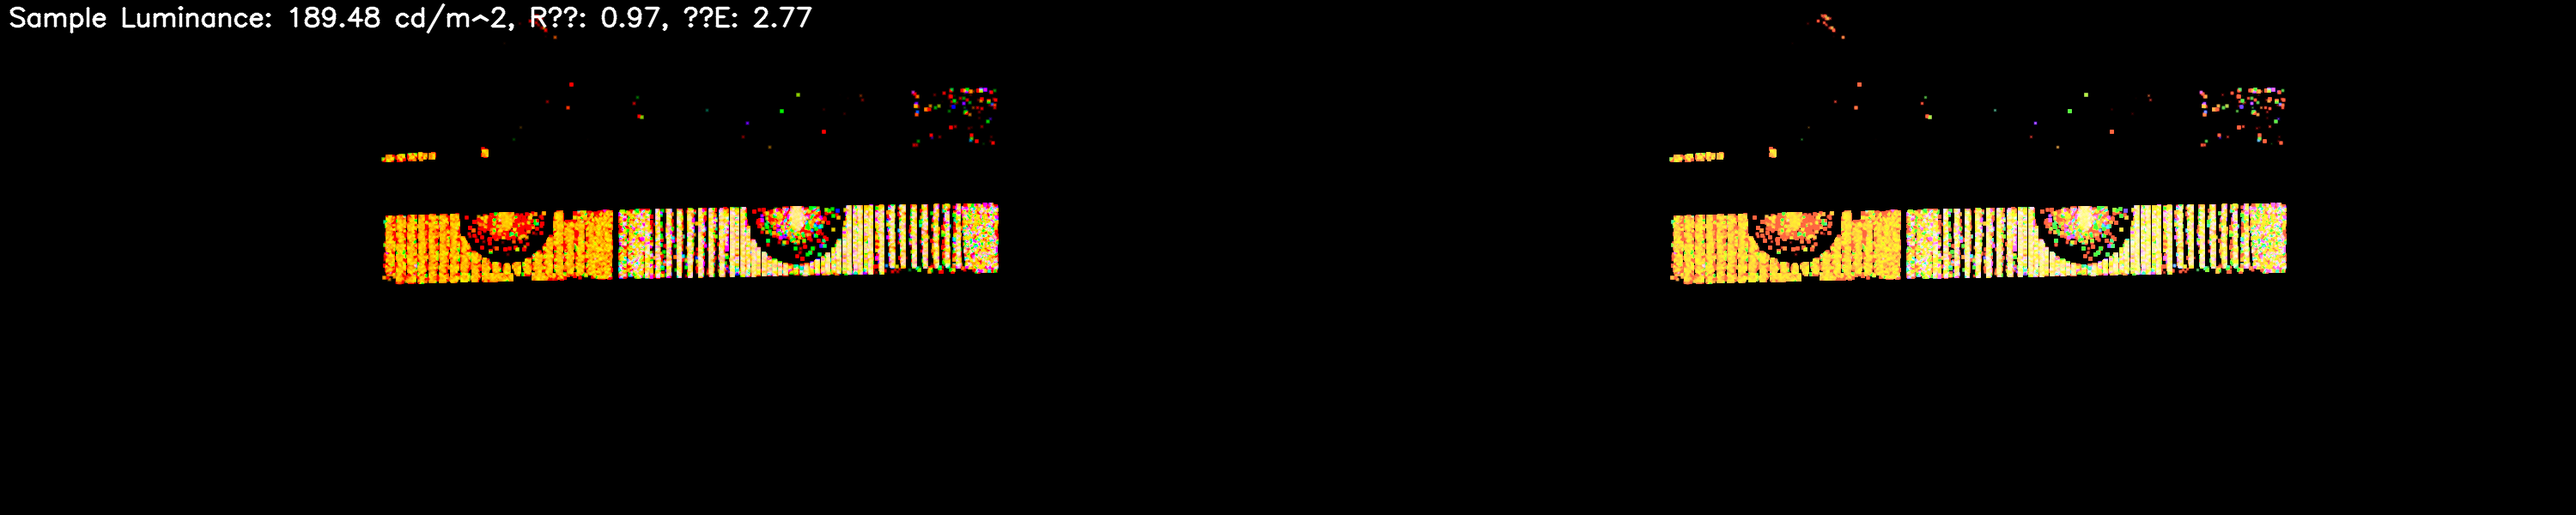
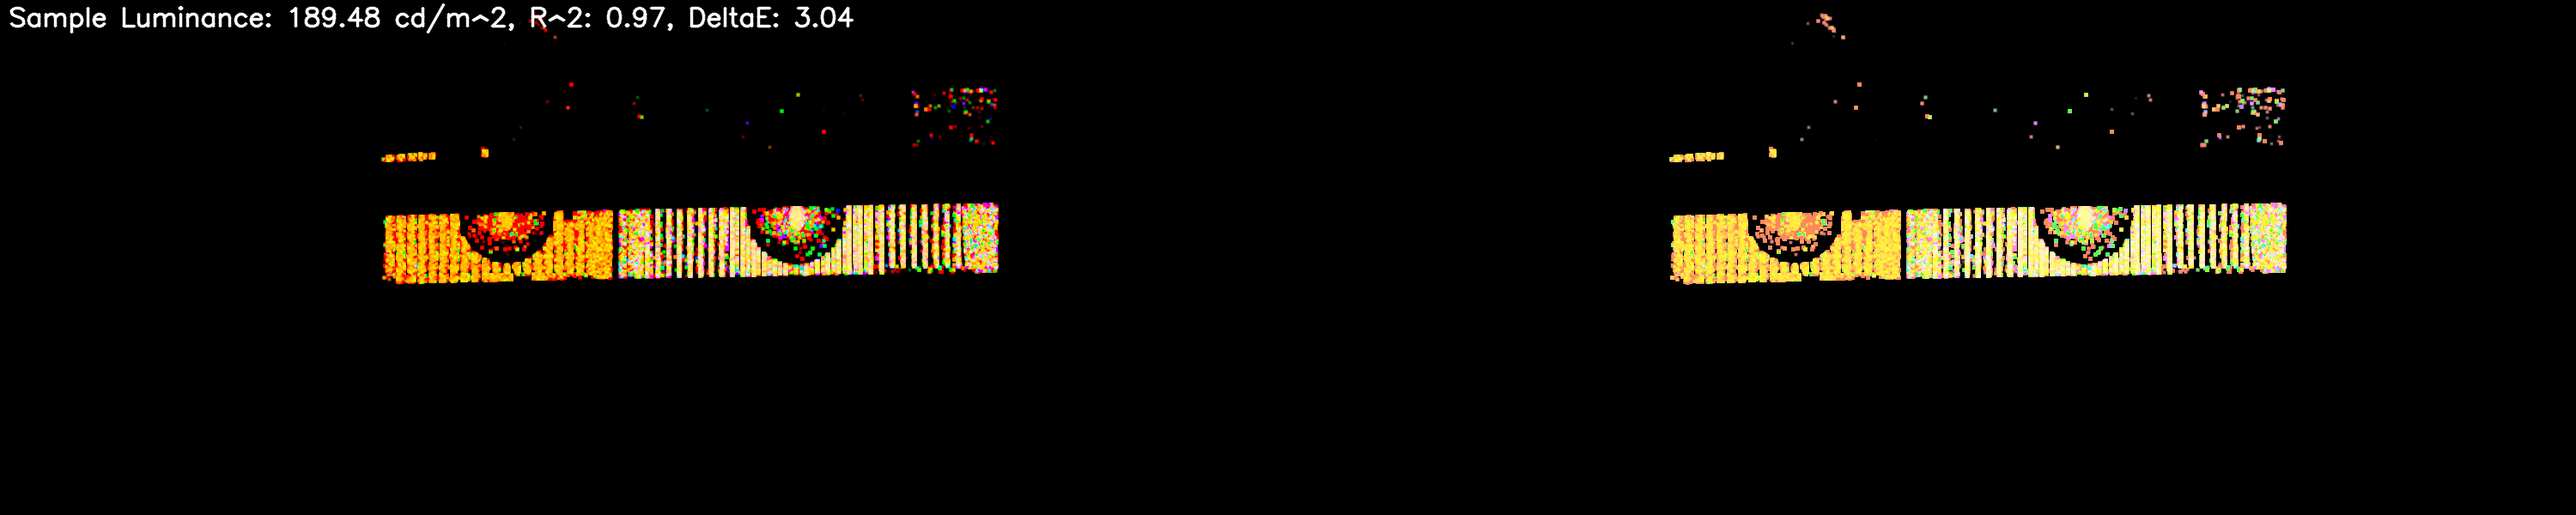
gamma correction modified: X * X_Ave -> c * X_Ave

diff --git a/HumanEyesAdaptator.py b/HumanEyesAdaptator.py
@@ -24,15 +24,17 @@ class HumanEyesAdaptator:
         image.convert_rgb_to_lab_luminance()
         return image.luminance
 
-    def apply_brightness_adjustment(self, df, X_Ave, k, b, epsilon=1e-10):
+    def apply_brightness_adjustment(self, df, X_Ave, k, b, c, epsilon=1e-10):
         df = df + epsilon  # Add epsilon to avoid log10(0)
-        Y = 100 * np.log10(1 + 9 * (df / self.X_Max) ** (k * np.log10(df * X_Ave) + b))
+        # Y = 100 * np.log10(1 + 9 * (df / self.X_Max) ** (k * np.log10(df * X_Ave) + b))
+        Y = 100 * np.log10(1 + 9 * (df / self.X_Max) ** (k * np.log10(1 + c * X_Ave) + b))
         return Y
 
-    def gamma_function(self, X, k, b, X_Ave):
+    def gamma_function(self, X, k, b, c, X_Ave):
         epsilon = 1e-10
         X = X + epsilon  # Add epsilon to avoid log10(0)
-        return 100 * np.log10(1 + 9 * (X / self.X_Max) ** (k * np.log10(X * X_Ave) + b))
+        # return 100 * np.log10(1 + 9 * (X / self.X_Max) ** (k * np.log10(X * X_Ave) + b))
+        return 100 * np.log10(1 + 9 * (X / self.X_Max) ** (k * np.log10(1 + c * X_Ave) + b))
     
     def sigmoid(self, X, k, X_Ave):
         return 1 / (1 + np.exp(-k * (X - X_Ave)))
@@ -41,6 +43,7 @@ class HumanEyesAdaptator:
         if self.fit_func == "gamma":  # Fit gamma
             k_values = []
             b_values = []
+            c_values = []
             r2_scores = []
             delta_Es = []
 
@@ -48,12 +51,13 @@ class HumanEyesAdaptator:
                 Y = self.extract_luminance_from_png(y_file)
                 X_Ave = self.X_Ave_values[i]
                 
-                params, _ = curve_fit(lambda X, k, b: self.gamma_function(X, k, b, X_Ave), self.X.ravel(), Y.ravel())
+                params, _ = curve_fit(lambda X, k, b, c: self.gamma_function(X, k, b, c, X_Ave), self.X.ravel(), Y.ravel())
                 k_values.append(params[0])
                 b_values.append(params[1])
+                c_values.append(params[2])
                 
                 # Calculate R²
-                Y_pred = self.gamma_function(self.X, params[0], params[1], X_Ave)
+                Y_pred = self.gamma_function(self.X, params[0], params[1], params[2], X_Ave)
                 r2 = r2_score(Y.ravel(), Y_pred.ravel())
                 r2_scores.append(r2)
 
@@ -63,11 +67,12 @@ class HumanEyesAdaptator:
             
             k_avg = np.mean(k_values)
             b_avg = np.mean(b_values)
+            c_avg = np.mean(c_values)
             r2_avg = np.mean(r2_scores)
 
-            print(f"Fitted parameters: k = {k_avg}, b = {b_avg}")
+            print(f"Fitted parameters: k = {k_avg}, b = {b_avg}, c = {c_avg}")
             print(f"Average R²: {r2_avg}")
-            return k_avg, b_avg, r2_avg, r2_scores, delta_Es
+            return k_avg, b_avg, c_avg, r2_avg, r2_scores, delta_Es
         
         elif self.fit_func == "sigmoid":  # Fit sigmoid
             k_values = []
@@ -100,7 +105,7 @@ class HumanEyesAdaptator:
     def generate_sample_luminance_values(self):
         return self.luminance_generator.generate_sample_luminance_values()
 
-    def save_comparison_images(self, output_dir, k, b, sample_luminance_values, r2_scores, delta_Es):
+    def save_comparison_images(self, output_dir, k, b, c, sample_luminance_values, r2_scores, delta_Es):
         # Ensure the output directory exists
         if not os.path.exists(output_dir):
             os.makedirs(output_dir)
@@ -116,7 +121,7 @@ class HumanEyesAdaptator:
                 l, a, b_ch = cv.split(lab_original)
                 
                 # Apply brightness adjustment to the L channel
-                adjusted_luminance = self.apply_brightness_adjustment(l, self.X_Ave_values[i], k, b)
+                adjusted_luminance = self.apply_brightness_adjustment(l, self.X_Ave_values[i], k, b, c)
                 
                 # Normalize adjusted luminance to 0-255 range
                 adjusted_luminance = ((adjusted_luminance - adjusted_luminance.min()) / 
@@ -145,7 +150,7 @@ class HumanEyesAdaptator:
             except Exception as e:
                 print(f"Error processing file {y_file}: {e}")
 
-    def visualize_fit(self, k, b, r2_scores, delta_Es, output_file):
+    def visualize_fit(self, k, b, c, r2_scores, delta_Es, output_file):
         plt.figure(figsize=(10, 6))
         
         # Plot R² values
@@ -187,13 +192,13 @@ initial_luminance = 6809.47  # Initial luminance in cd/m²
 adaptator = HumanEyesAdaptator(initial_png_file, adjusted_png_files, initial_luminance, "gamma")
 
 # Fit gamma
-k, b, r2_avg, r2_scores, delta_Es = adaptator.fit()
+k, b, c, r2_avg, r2_scores, delta_Es = adaptator.fit()
 
 # Save comparison images
 output_dir = os.path.join(current_path, 'data/comparison_images')
 sample_luminance_values = adaptator.generate_sample_luminance_values()
-adaptator.save_comparison_images(output_dir, k, b, sample_luminance_values, r2_scores, delta_Es)
+adaptator.save_comparison_images(output_dir, k, b, c, sample_luminance_values, r2_scores, delta_Es)
 
 # Visualize the fit and save the figure
 output_file = os.path.join(current_path, 'data/r2_and_delta_e.png')
-adaptator.visualize_fit(k, b, r2_scores, delta_Es, output_file)
+adaptator.visualize_fit(k, b, c, r2_scores, delta_Es, output_file)
